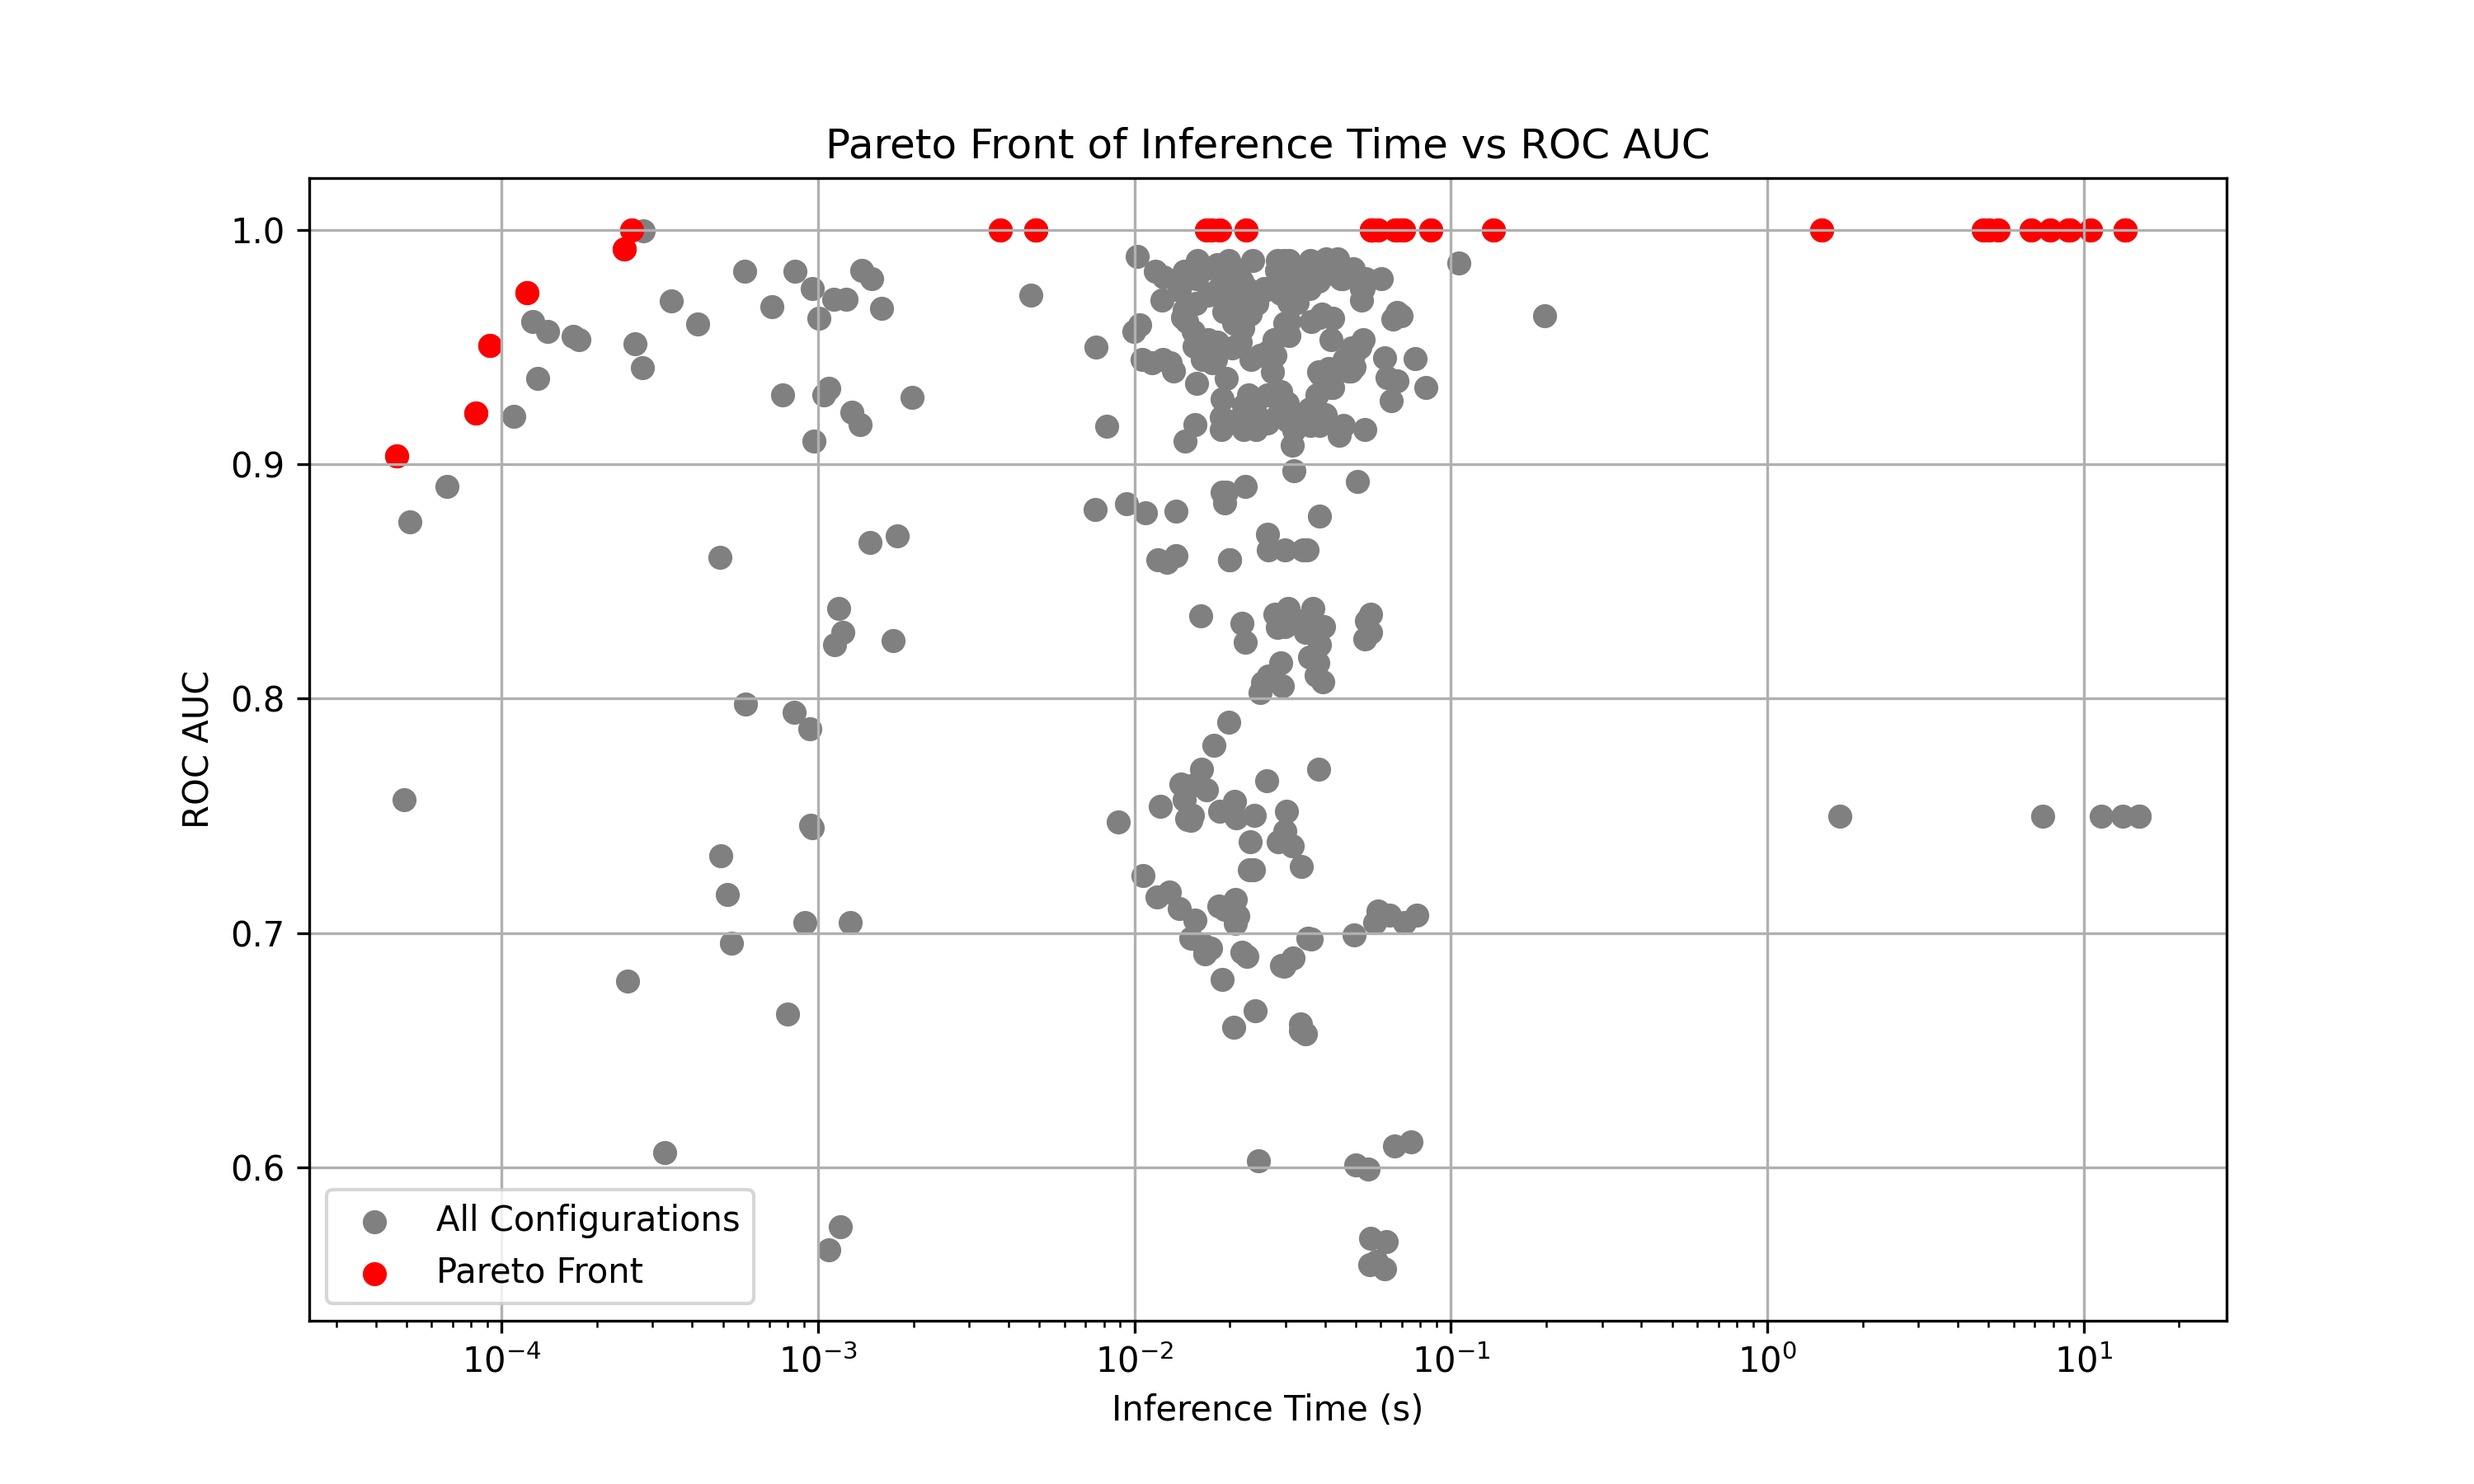
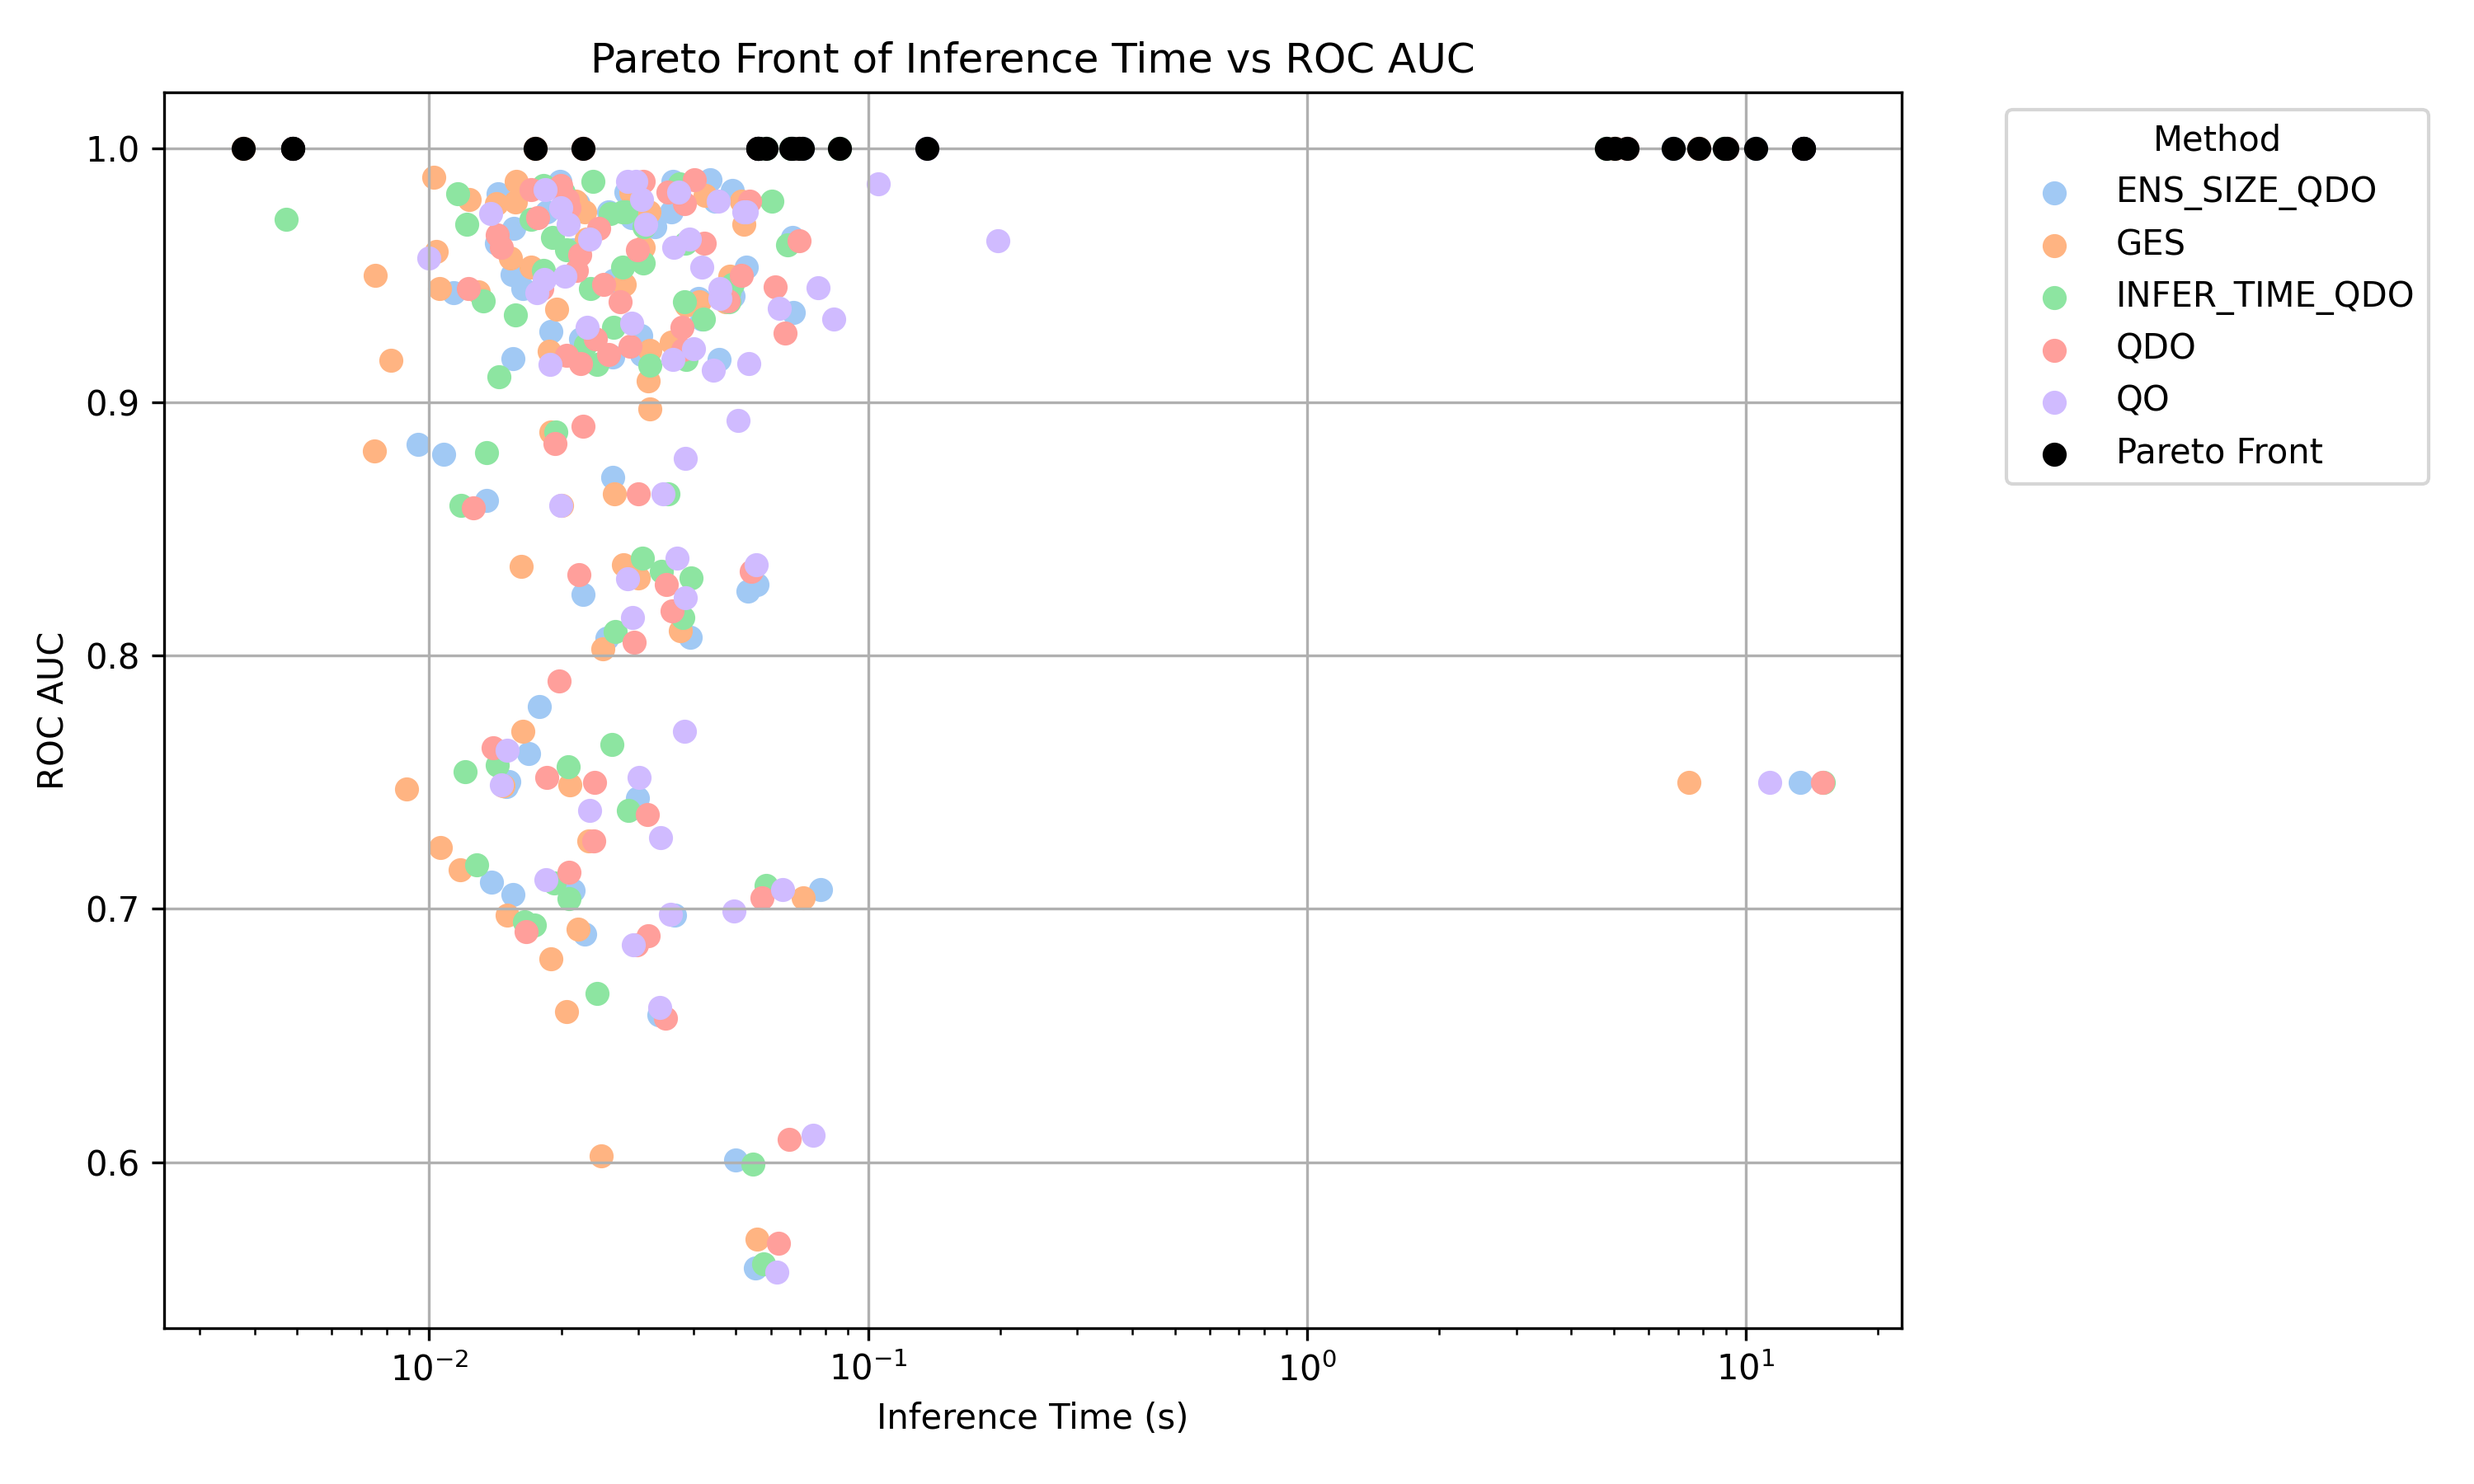
Slurm scripts and Pareto

diff --git a/haes/plot.py b/haes/plot.py
@@ -230,34 +230,13 @@ def main():
     # Remove task_id 3616
     df = df[df["task_id"] != "3616"]
 
-    # Pareto efficiency
-    costs = np.stack((df["inference_time"], -df["roc_auc"]), axis=1)
-    pareto_mask = is_pareto_efficient(costs)
-    pareto_df = df[pareto_mask]
-    plt.figure(figsize=(10, 6))
-    plt.scatter(
-        df["inference_time"], df["roc_auc"], color="gray", label="All Configurations"
-    )
-    plt.scatter(
-        pareto_df["inference_time"],
-        pareto_df["roc_auc"],
-        color="red",
-        label="Pareto Front",
-    )
-    plt.title("Pareto Front of Inference Time vs ROC AUC")
-    plt.xlabel("Inference Time (s)")
-    plt.ylabel("ROC AUC")
-    plt.xscale("log")
-    plt.legend()
-    plt.grid(True)
-    plt.savefig("pareto_front.png", dpi=300)
-
     df_merged = (
         df.groupby(["task_id", "method"])
         .agg(
             {
                 "dataset_rank": "mean",  # or 'first' since all should be identical
                 "roc_auc": "mean",  # Average ROC AUC across folds
+                "inference_time": "mean",  # Average inference time across folds
             }
         )
         .reset_index()
@@ -268,7 +247,47 @@ def main():
 
     boxplot(df_merged, "roc_auc_normalized")
     boxplot(df, "normalized_improvement")
+    df_merged_infertime_no_outliers = df_merged[
+        (df_merged["inference_time"] < 1.5) & (df_merged["roc_auc_normalized"] > 0.6)
+    ]
+    boxplot(df_merged_infertime_no_outliers, "inference_time")
     boxplot_ranking(df_merged)
+
+    # Pareto efficiency
+    # Exclude single best
+    df = df[df["method"] != "Single Best"]
+    costs = np.stack((df["inference_time"], -df["roc_auc"]), axis=1)
+    pareto_mask = is_pareto_efficient(costs)
+    pareto_df = df[pareto_mask]
+
+    # Get the pastel color palette with as many colors as there are methods
+    methods = df['method'].unique()
+    palette = sns.color_palette("pastel", len(methods))
+
+    # Create a color dictionary to map each method to a color
+    color_dict = dict(zip(methods, palette))
+
+    # Plot all configurations with colors based on the method
+    plt.figure(figsize=(10, 6))
+    for method in methods:
+        subset = df[df['method'] == method]
+        plt.scatter(subset['inference_time'], subset['roc_auc'], color=color_dict[method], label=method)
+
+    # Now plot the Pareto front with a distinct color and label
+    plt.scatter(
+        pareto_df['inference_time'], pareto_df['roc_auc'],
+        color='black', edgecolors='k', label='Pareto Front', zorder=10
+    )
+
+    # Enhance plot aesthetics and usability
+    plt.title("Pareto Front of Inference Time vs ROC AUC")
+    plt.xlabel("Inference Time (s)")
+    plt.xscale("log")
+    plt.ylabel("ROC AUC")
+    plt.legend(title='Method', bbox_to_anchor=(1.05, 1), loc='upper left')
+    plt.grid(True)
+    plt.tight_layout()  # Adjust layout to accommodate the legend
+    plt.savefig("pareto_front.png", dpi=300)
 
 
 if __name__ == "__main__":

diff --git a/haes/main.py b/haes/main.py
@@ -16,6 +16,18 @@ import numpy as np
 import matplotlib.pyplot as plt
 from ribs.visualize import sliding_boundaries_archive_heatmap
 
+import argparse
+
+
+def parse_args():
+    parser = argparse.ArgumentParser(
+        description="Run ensemble evaluations with a specific seed."
+    )
+    parser.add_argument(
+        "--seed", type=int, default=0, help="Seed for RNG initialization."
+    )
+    return parser.parse_args()
+
 
 @dataclass
 class FakedFittedAndValidatedClassificationBaseModel:
@@ -140,7 +152,7 @@ def plot_archive(qdo_es: QDOEnsembleSelection, name: str):
         min(y_boundary) * 0.95 - 0.0005,
         max(y_boundary) * 1.05,
     )
-    
+
     plt.savefig(f"archive_plots/{name}.png", dpi=300)
 
 
@@ -206,7 +218,7 @@ def evaluate_ensemble(
         )
         models_used = [ensemble.base_models[i].name for i in weight_indices]
         print(f"\tModels used: {models_used}")
-        
+
         # plot_archive(ensemble, name + f"_{task}")
     else:
         pass
@@ -338,12 +350,13 @@ def evaluate_single_best_model(
 
 
 def main(
-    run_singleBest: bool,
-    run_ges: bool,
-    run_qo: bool,
-    run_qdo: bool,
-    run_infer_time_qdo: bool,
-    run_ens_size_qdo: bool,
+    random_seed: int = 1,
+    run_singleBest: bool = False,
+    run_ges: bool = False,
+    run_qo: bool = False,
+    run_qdo: bool = False,
+    run_infer_time_qdo: bool = False,
+    run_ens_size_qdo: bool = False,
 ):
     # Define the context for the ensemble evaluation
     context_name = "D244_F3_C1530_30"
@@ -463,7 +476,9 @@ def main(
 
 
 if __name__ == "__main__":
+    args = parse_args()
     main(
+        args.seed,
         run_singleBest=False,
         run_ges=True,
         run_qo=True,
